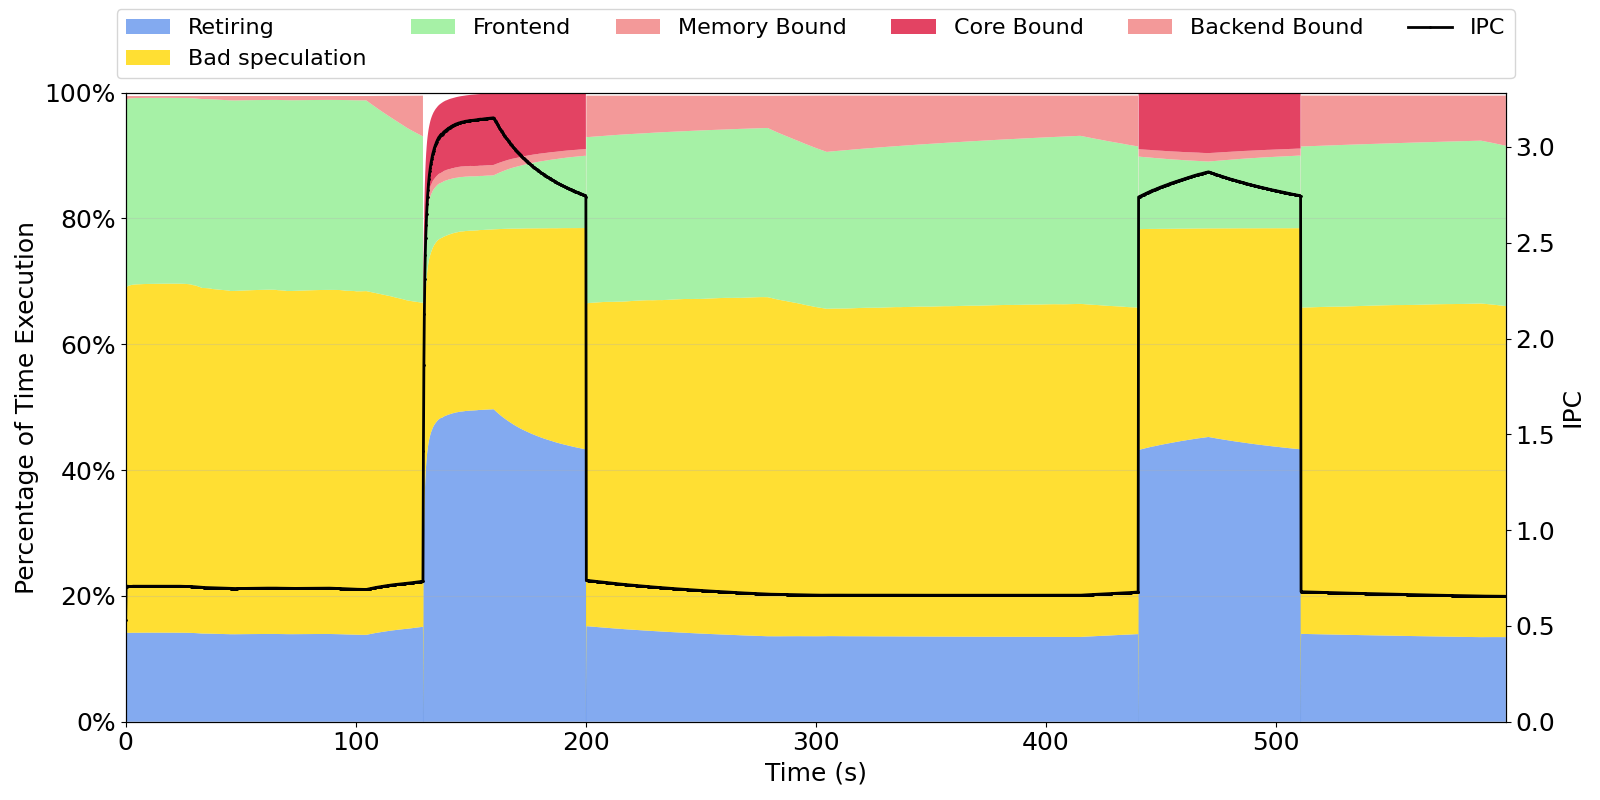
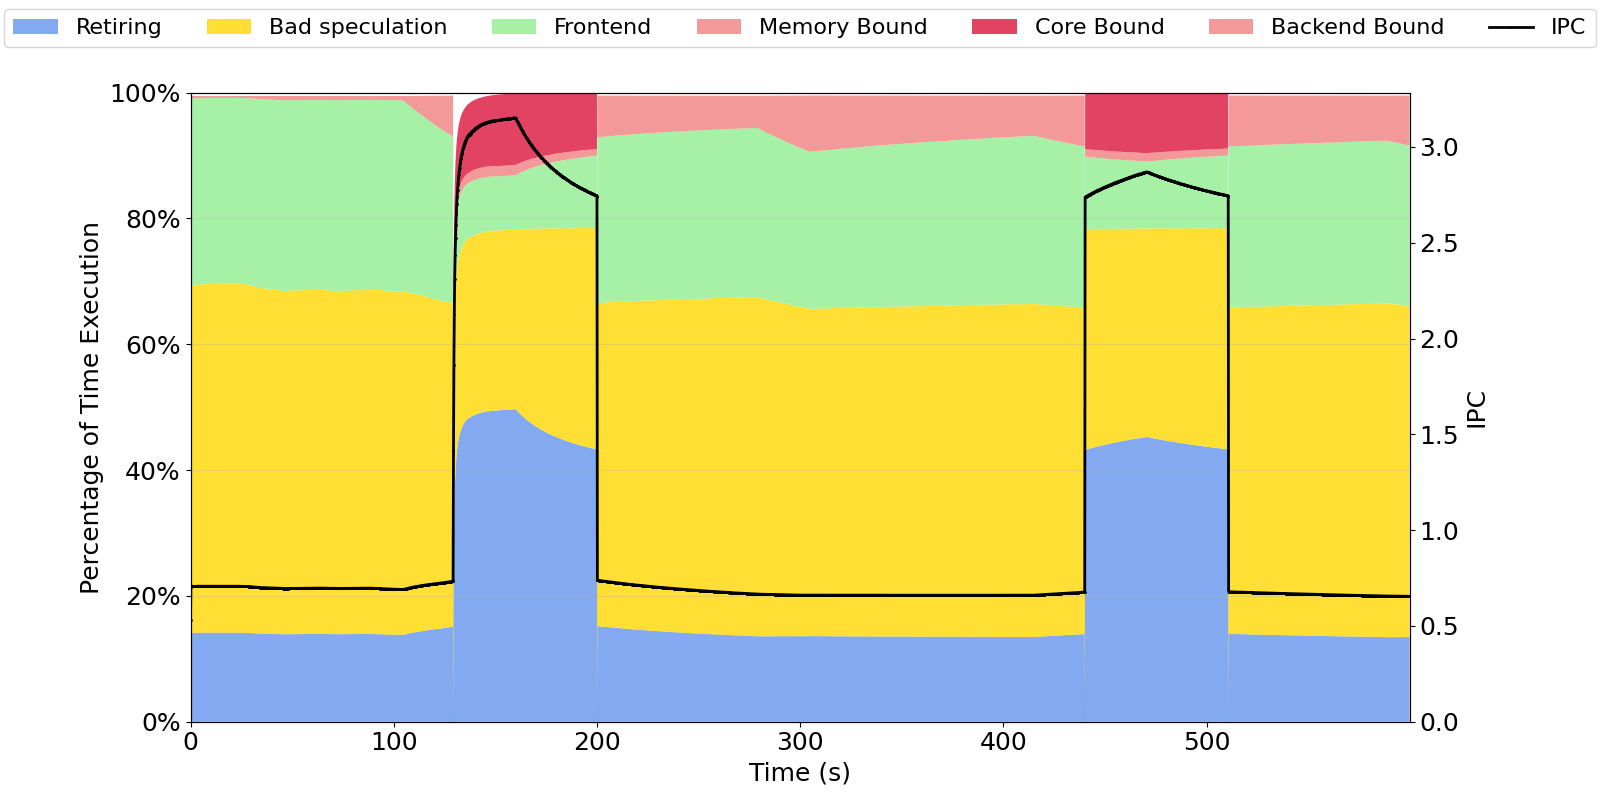
Go

diff --git a/topdown_juntas.py b/topdown_juntas.py
@@ -76,7 +76,7 @@ def main():
             plt.subplots_adjust(top=0.85)
             plt.legend(lines + lines2, labels + labels2, 
                         loc='upper center', bbox_to_anchor=(0.5, 1.15), 
-                        fontsize=16, ncol=6)
+                        fontsize=16, ncol=7)
             
             plt.tight_layout()
 
